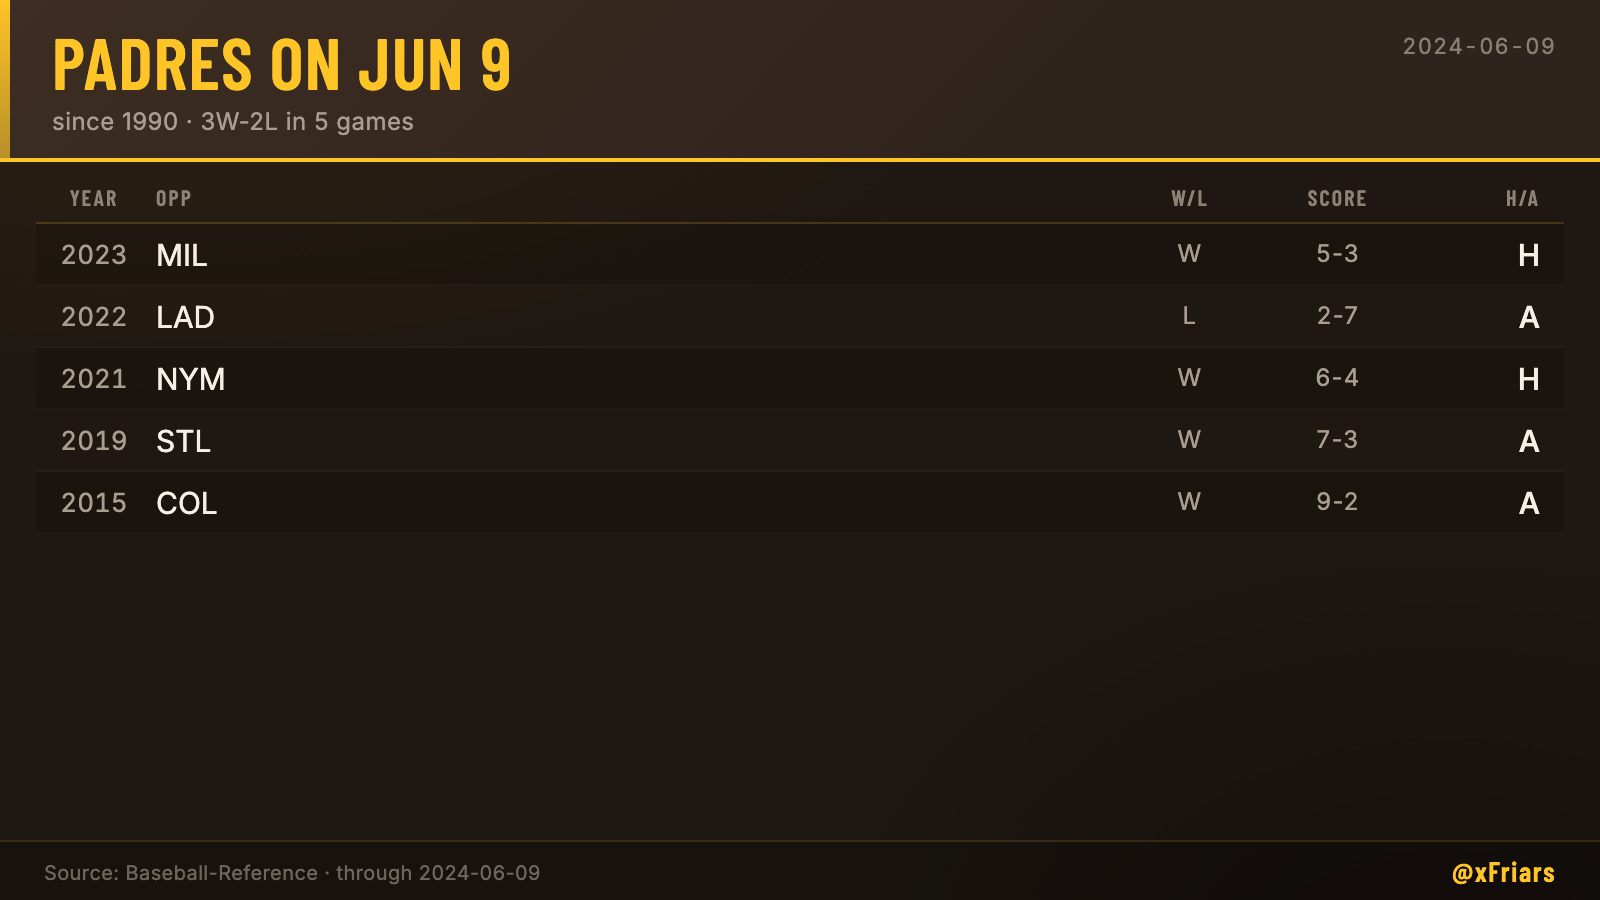
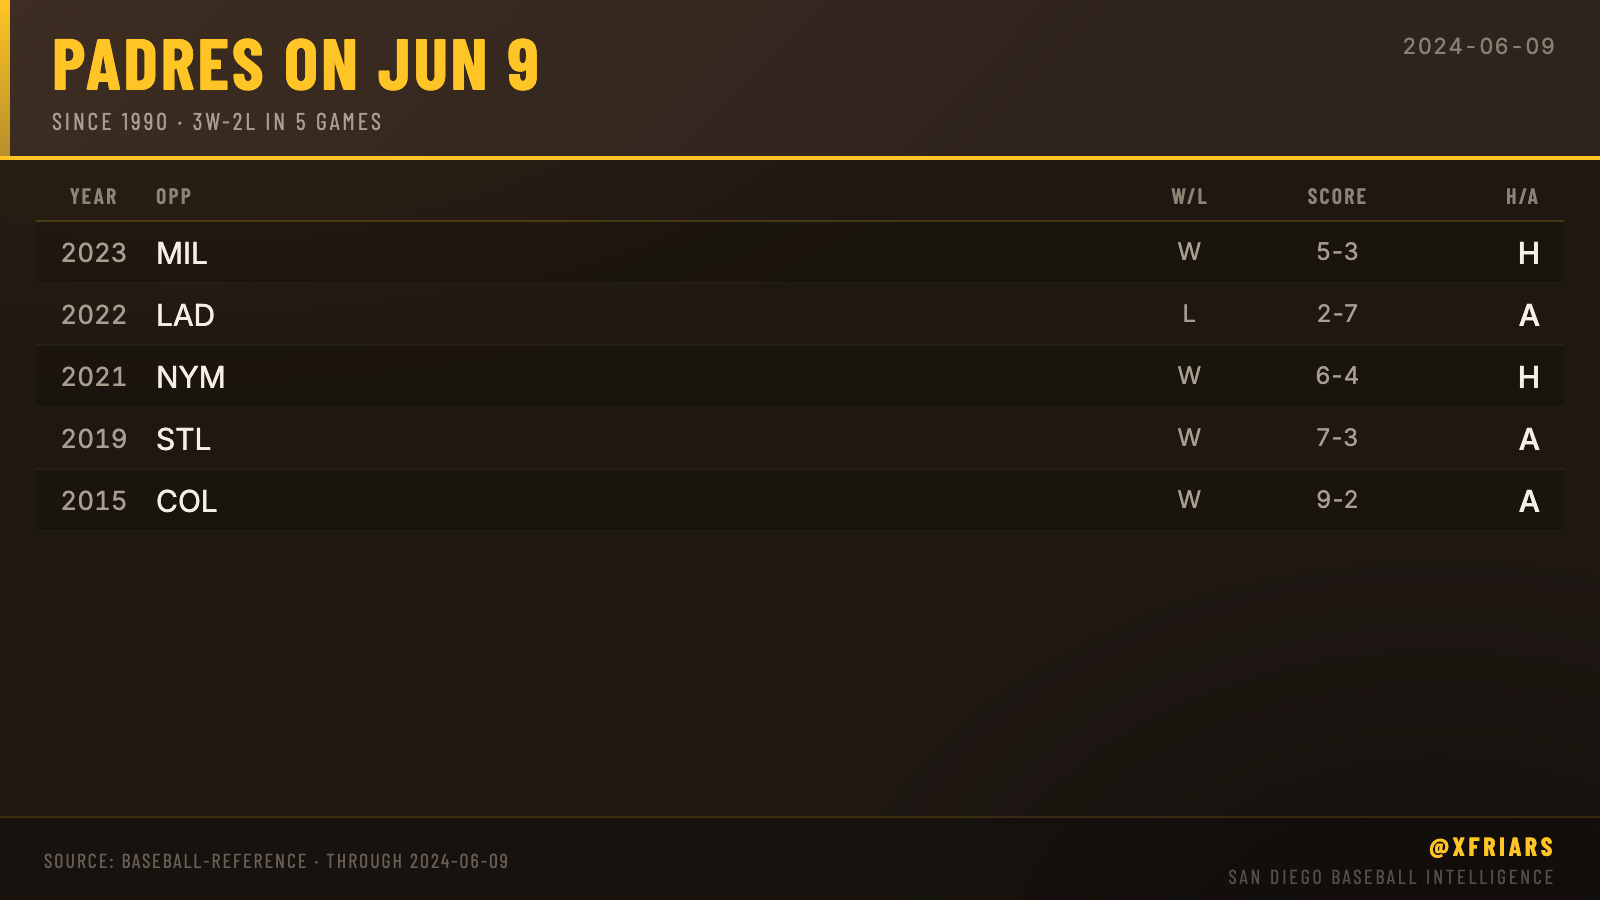
style: align card template with xFriars brand guide
- Add BarlowCondensed-Bold.ttf (700 weight) to vendored fonts
- Title: SemiBold → Bold, letter-spacing 0.04em
- Subtitle: uppercase Barlow Condensed Regular, letter-spacing 0.12em
- Footer source labels: uppercase, Barlow Condensed
- Footer handle: Bold 700, letter-spacing 0.14em
- Footer tagline: "SAN DIEGO BASEBALL INTELLIGENCE" below @user
- Regenerate snapshot reference

diff --git a/src/padres_analytics/render/cards.py b/src/padres_analytics/render/cards.py
@@ -12,6 +12,7 @@ from jinja2 import Environment, FileSystemLoader, select_autoescape
 
 from padres_analytics.detect.candidates import SeriesPayload, TablePayload
 from padres_analytics.render.tokens import (
+    BARLOW_BOLD_TTF,
     BARLOW_REGULAR_TTF,
     BARLOW_SEMIBOLD_TTF,
     BG_DEEP,
@@ -121,6 +122,7 @@ def _render_table(
         inter_ttf=str(INTER_TTF),
         barlow_regular_ttf=str(BARLOW_REGULAR_TTF),
         barlow_semibold_ttf=str(BARLOW_SEMIBOLD_TTF),
+        barlow_bold_ttf=str(BARLOW_BOLD_TTF),
     )
 
     with tempfile.NamedTemporaryFile(

diff --git a/src/padres_analytics/render/tokens.py b/src/padres_analytics/render/tokens.py
@@ -37,3 +37,4 @@ FONTS_DIR = Path(__file__).parent / "templates" / "fonts"
 INTER_TTF = FONTS_DIR / "InterVariable.ttf"
 BARLOW_REGULAR_TTF = FONTS_DIR / "BarlowCondensed-Regular.ttf"
 BARLOW_SEMIBOLD_TTF = FONTS_DIR / "BarlowCondensed-SemiBold.ttf"
+BARLOW_BOLD_TTF = FONTS_DIR / "BarlowCondensed-Bold.ttf"